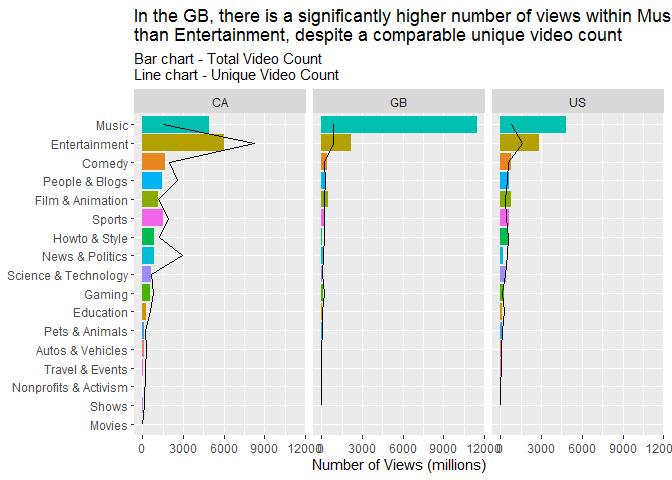
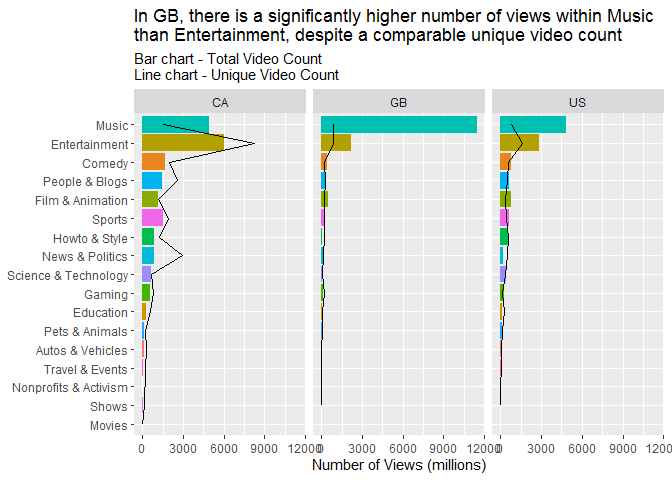
initial read me

Changed region(s): [[0.2188, 0.0, 1.0, 0.0625]]

diff --git a/Exploratory-Data-Analysis.md b/Exploratory-Data-Analysis.md
@@ -11,18 +11,18 @@ YouTube Trending Videos
       - [Dataset information:](#dataset-information)
   - [2. Data import, tidying, cleaning](#data-import-tidying-cleaning)
       - [2.1. Import](#import)
-      - [2.2. Clean and Tidy Data](#clean-and-tidy-data)
+      - [2.2. Clean and tidy data](#clean-and-tidy-data)
   - [3. Analysis](#analysis)
       - [3.1. Correlation](#correlation)
           - [Key insights from the correlation
             analysis:](#key-insights-from-the-correlation-analysis)
       - [3.2. Trending Date](#trending-date)
           - [3.2.1. What do the overall stats look like based on the
-            Trending
-            Date?](#what-do-the-overall-stats-look-like-based-on-the-trending-date)
+            trending
+            date?](#what-do-the-overall-stats-look-like-based-on-the-trending-date)
           - [3.2.2. How long does a video typically trend
             for?](#how-long-does-a-video-typically-trend-for)
-          - [3.2.3. How long does it take for a video to become Trending
+          - [3.2.3. How long does it take for a video to become trending
             for the first
             time?](#how-long-does-it-take-for-a-video-to-become-trending-for-the-first-time)
           - [3.2.4. Are there any differences in the amount of videos
@@ -35,7 +35,7 @@ YouTube Trending Videos
             reached trending (in
             millions)?](#overall-whats-the-spread-of-views-for-those-that-reached-trending-in-millions)
           - [3.3.3. What does the profile look like for the majority of
-            the videos that never reached the 1m Views
+            the videos that never reached the 1m views
             mark?](#what-does-the-profile-look-like-for-the-majority-of-the-videos-that-never-reached-the-1m-views-mark)
           - [3.3.4. Is a video required to trend for more than a day in
             order to get the best
@@ -45,7 +45,7 @@ YouTube Trending Videos
             videos that made it on the trending
             page?](#how-do-categories-differ-in-terms-of-the-amount-of-videos-that-made-it-on-the-trending-page)
           - [3.4.2. How do categories differ in terms of
-            Views?](#how-do-categories-differ-in-terms-of-views)
+            views?](#how-do-categories-differ-in-terms-of-views)
           - [3.4.3. What does the spread of views within each category
             look
             like?](#what-does-the-spread-of-views-within-each-category-look-like)
@@ -106,13 +106,11 @@ and then further refine these questions based on what was discovered.*
 
 ### Key Insights:
 
-  - 1)  CA tends to have videos that only trend for a very short period,
-        while in the GB/US they typically trend significantly longer (up
-        to 38 days)
-
-  - 2)  bla bla
-
-  - 3)  bla bla bla
+  - CA tends to have videos that only trend for a very short period,
+    while in the GB/US they typically trend significantly longer (up to
+    38 days)
+  - bla bla
+  - bla bla bla
 
 ### Dataset information:
 
@@ -131,46 +129,14 @@ The following packages were needed to produce the output:
 ``` r
 library(ggplot2)
 library(dplyr)
-```
-
-    ## Warning: package 'dplyr' was built under R version 3.6.3
-
-``` r
 library(lubridate)
-```
-
-    ## Warning: package 'lubridate' was built under R version 3.6.2
-
-``` r
 library(data.table)
-```
-
-    ## Warning: package 'data.table' was built under R version 3.6.2
-
-``` r
 library(readr)
-```
-
-    ## Warning: package 'readr' was built under R version 3.6.2
-
-``` r
 library(rjson)
 library(jsonlite)
-```
-
-    ## Warning: package 'jsonlite' was built under R version 3.6.2
-
-``` r
 library(ggcorrplot)
-```
-
-    ## Warning: package 'ggcorrplot' was built under R version 3.6.3
-
-``` r
 library(knitr)
 ```
-
-    ## Warning: package 'knitr' was built under R version 3.6.3
 
 ### 2.1. Import
 
@@ -215,7 +181,7 @@ rm(US_category, GB_category, CA_category)
 rm(us_cat_json, gb_cat_json, ca_cat_json)
 ```
 
-### 2.2. Clean and Tidy Data
+### 2.2. Clean and tidy data
 
 ``` r
 #I usually like to save a backup of the raw data to make it easier to revert changes (if needed) so let's do that
@@ -414,7 +380,7 @@ pmat <- cor_pmat(raw_data_corr)
 
 ``` r
 knitr::kable(pmat, 
-             caption = "Matrix of correlation p-values",
+             caption = "Fig 1 - Matrix of correlation p-values",
              digits = 3)
 ```
 
@@ -426,7 +392,7 @@ knitr::kable(pmat,
 | comment\_count | 0.000 |     0 |    0.000 |              0 |      0.000 |
 | days\_diff     | 0.093 |     0 |    0.086 |              0 |      0.000 |
 
-Matrix of correlation p-values
+Fig 1 - Matrix of correlation p-values
 
 Let’s visualise our correlation output:
 
@@ -459,7 +425,7 @@ ggcorrplot(corr, method = "square",
 
 ## 3.2. Trending Date
 
-### 3.2.1. What do the overall stats look like based on the Trending Date?
+### 3.2.1. What do the overall stats look like based on the trending date?
 
 ``` r
 #set up overall dataset
@@ -475,7 +441,7 @@ ggplot(trending_summary)+
   geom_label(aes(country, unique, label = paste(round(unique/count*100), "% unique", sep = "")), fill = "black", col = "white")+
   labs(y = "Total Trending Videos",
        x = NULL,
-       title = "Despite a similar number of Total Trending Videos, CA has a different \nprofile to GB and US with considerably more unique videos")
+       title = "Despite a similar number of total trending videos, CA has a different \nprofile to GB and US with considerably more unique videos")
 ```
 
 ![](Exploratory-Data-Analysis_files/figure-gfm/2%20-%20overall%20videos%20by%20country-1.png)<!-- -->
@@ -492,6 +458,7 @@ trending_duration <- raw_data %>%
 ggplot(trending_duration, aes(count, ..prop.., fill = country))+
   geom_bar()+
   facet_grid(.~country)+
+  theme(legend.position = "none") + 
   labs(y = "% of Unique Trending Videos",
        x = "Max Trending Days",
        fill = "Country",
@@ -501,7 +468,7 @@ ggplot(trending_duration, aes(count, ..prop.., fill = country))+
 
 ![](Exploratory-Data-Analysis_files/figure-gfm/3%20-%20Trending%20Days%20Timespan-1.png)<!-- -->
 
-### 3.2.3. How long does it take for a video to become Trending for the first time?
+### 3.2.3. How long does it take for a video to become trending for the first time?
 
 ``` r
 #create a new dataset to help answer this question
@@ -557,7 +524,7 @@ ggplot(trending_data, aes(as.factor(days_diff), count))+
   labs(y = "Unique Trending Videos",
        x = "Days Until Trending",
        title = "~75% of videos became trending within their first day and ~95% took < 5 days",
-       subtitle = "It is unlikely for a video to reach the Trending Page if it hasn't done so within the first 10 days")
+       subtitle = "It is unlikely for a video to reach the trending page if it hasn't done so within the first 10 days")
 ```
 
 ![](Exploratory-Data-Analysis_files/figure-gfm/unnamed-chunk-10-1.png)<!-- -->
@@ -570,6 +537,7 @@ ggplot(trending_data, aes(days_diff, count, fill = country))+
   geom_col()+
   coord_cartesian(xlim=c(0,max_limit))+ #zooming in on the area of interest (99% of the data)
   facet_grid(.~country)+
+  theme(legend.position = "none") + 
   labs(y = "Unique Trending Videos",
        x = "Days Until Trending",
        fill = "Country",
@@ -623,8 +591,8 @@ ggplot(views_summary)+
   theme(legend.position = "none") + 
   annotate("text", x = 2.7, y = 7.35, label = "Unique Trending Videos (thousands)", angle = 14, lwd = 4.5)+
   labs(y = "Total Views (billions)",
-       x = "Country",
-       title = "CA leads in Total Views (8x more unique videos than GB and 4x more than US) \nGB has more Views than US, despite having ~50% fewer videos")
+       x = NULL,
+       title = "CA leads in total views (8x more unique videos than GB and 4x more than US) \nGB has more Views than US, despite having ~50% fewer videos")
 ```
 
 ![](Exploratory-Data-Analysis_files/figure-gfm/unnamed-chunk-12-1.png)<!-- -->
@@ -688,7 +656,7 @@ ggplot(views_data, aes(views_m_reached, count))+
   coord_cartesian(xlim=c(0,max_limit))+
   labs(y = "Unique Trending Videos",
        x = "Views (millions)",
-       title = "Only ~25% of videos receive more than 1 million Views \nMost (~95%) of the videos haven't reached the 5m View Count")+
+       title = "Only ~25% of videos receive more than 1 million views \nMost (~95%) of the videos haven't reached the 5m view count")+
   geom_vline(xintercept=0.51, lwd = 1, col = "black", lty = 1)+
   annotate("text", x = 0.8, y = 29000, label = "76% of data", angle = 90)+
   geom_vline(xintercept=4.5, lwd = 1, col = "black", lty = 5)+
@@ -718,7 +686,7 @@ labs(y = "% of Unique Trending Videos",
 
 ![](Exploratory-Data-Analysis_files/figure-gfm/Views%20Spready%20By%20Country-1.png)<!-- -->
 
-### 3.3.3. What does the profile look like for the majority of the videos that never reached the 1m Views mark?
+### 3.3.3. What does the profile look like for the majority of the videos that never reached the 1m views mark?
 
 ``` r
 #let's adapt the dataset to only include the videos that never reached 1m views
@@ -774,8 +742,8 @@ ggplot(views_by_video, aes(as.factor(count), views)) +
   coord_cartesian(ylim = c(0, 80))+
   labs(y = "Max views (million)",
        x = "Total Trending Days",
-       title = "The longer a video trends for, the more views it accumulates (excludes outliers)",
-       subtitle = "However, the sample size decreases significantly with each increase in Total Trending Days")
+       title = "The longer a video trends, the more views it accumulates (excludes outliers)",
+       subtitle = "However, the sample size decreases significantly with each increase in total trending days")
 ```
 
 ![](Exploratory-Data-Analysis_files/figure-gfm/Views%20by%20Trending%20day%20count-1.png)<!-- -->
@@ -788,7 +756,7 @@ ggplot(views_by_video, aes(as.factor(count), views)) +
   coord_cartesian(ylim = c(0, 100))+
   scale_x_discrete(breaks = seq(0,38,5))+
   theme(legend.position = "none") + 
-  labs(y = "Max views (million)",
+  labs(y = "Max Views (million)",
        x = "Total Trending Days",
        title = "Irrespective of Country, the longer a video trends, the more views it gets",
        subtitle = "However, it's hard to compare this trend across countries due to different sample sizes")+
@@ -827,7 +795,7 @@ ggplot(raw_data_cat, aes(x=reorder(category_title, count), y = count, fill = cat
 
 ![](Exploratory-Data-Analysis_files/figure-gfm/unnamed-chunk-19-1.png)<!-- -->
 
-### 3.4.2. How do categories differ in terms of Views?
+### 3.4.2. How do categories differ in terms of views?
 
 ``` r
 ggplot(raw_data_cat) + 
@@ -837,7 +805,7 @@ ggplot(raw_data_cat) +
   theme(legend.position = "none") + 
   labs(y = "Number of Views (millions)",
        x = NULL,
-       title = "In the GB, there is a significantly higher number of views within Music \nthan Entertainment, despite a comparable unique video count",
+       title = "In GB, there is a significantly higher number of views within Music \nthan Entertainment, despite a comparable unique video count",
        subtitle = "Bar chart - Total Video Count \nLine chart - Unique Video Count")+
   coord_flip()
 ```
@@ -908,7 +876,7 @@ ggplot(raw_data_eng_overall) +
   geom_line(aes(country, perc_engagement), group = 1, lwd = 1, lty = 3) +
   theme(legend.position = "none") + 
   labs(y = "% dislikes / % engagement",
-       x = "Country",
+       x = NULL,
        title = "GB has a higher % of dislikes and lower overall engagement",
        subtitle = "Bar chart - % of Dislikes ( Dislikes / ( Likes + Dislikes ) ); \nDotted Line chart - % engagement ( ( Likes + Dislikes + Comments ) / Views )")
 ```
@@ -945,7 +913,7 @@ ggplot(raw_data_eng) +
   theme(legend.position = "none") + 
   labs(y = "% dislikes",
        x = NULL,
-       title = "The most disliked categories are News&Politics and Entertainment \nThe most liked categories were Comedy and Pets&Animals",
+       title = "The most disliked categories: News&Politics and Entertainment \nThe most liked categories: Comedy and Pets&Animals",
        subtitle = "Dotted line indicates unique videos across each category")+
   coord_flip()
 ```

diff --git a/README.md b/README.md
@@ -1,2 +1,58 @@
-# YouTube-Trending-Videos-EDA
-An Exploratory Data Analysis project for YouTube Trending videos
+YouTube Trending Videos
+================
+
+# 1\. Background
+
+### Why this dataset?
+
+YouTube has been an influential source of knowledge both in my
+professional life as well in my personal goals/ambitions. Thus, I
+thought it would be interesting to **explore** this dataset, gather
+**insights** and understand the more about the platform.
+
+### What are Trending Videos and why are they important?
+
+Trending videos work alongside the home page to provide users with
+content to watch. While the home page is **highly personalised** (via
+the YouTube algorithm) on previous views, what the user watched longest,
+engagement, subscriptions, the trending page is **very broad and
+identical across all accounts**. Since it shows this feed to hundreds of
+thousands of accounts, it serves as a great source of views for content
+creators (think viral videos).
+
+![YouTube Trending Page](_support%20files/Trending%20Example.png)
+
+### Purpose of this analysis:
+
+1.  **Develop an understanding of the YouTube Trending Videos**
+2.  **Assess differences between English-speaking countries (Canada,
+    Great Britain, United States of America)**
+
+*Thus, all throughout, we will generate questions, answer them with data
+and then further refine these questions based on what was discovered.*
+
+### To whom might this be helpful?
+
+  - Content Creators / Marketing Agencies can get a better understanding
+    of the audience which would help tailor content
+  - Data Science enthusiasts, as they might get new ideas for how to use
+    R (for beginners) or see other people’s analyses (for intermediates)
+  - Those that are generally interested in YouTube
+
+### Key Insights:
+
+  - CA tends to have videos that only trend for a very short period,
+    while in the GB/US they typically trend significantly longer (up to
+    38 days)
+  - bla bla
+  - bla bla bla
+
+### Dataset information:
+
+  - Contains \>120,000 videos across three countries (Canada, Great
+    Britain, United States of America)
+  - 8 months of Daily Trending data between “2017-11-14” and
+    “2018-06-14” (approx 200 videos/day/country)
+  - All the data is downloaded from
+    <https://www.kaggle.com/datasnaek/youtube-new> - *Raw data files are
+    available within the “Datasets” folder*
